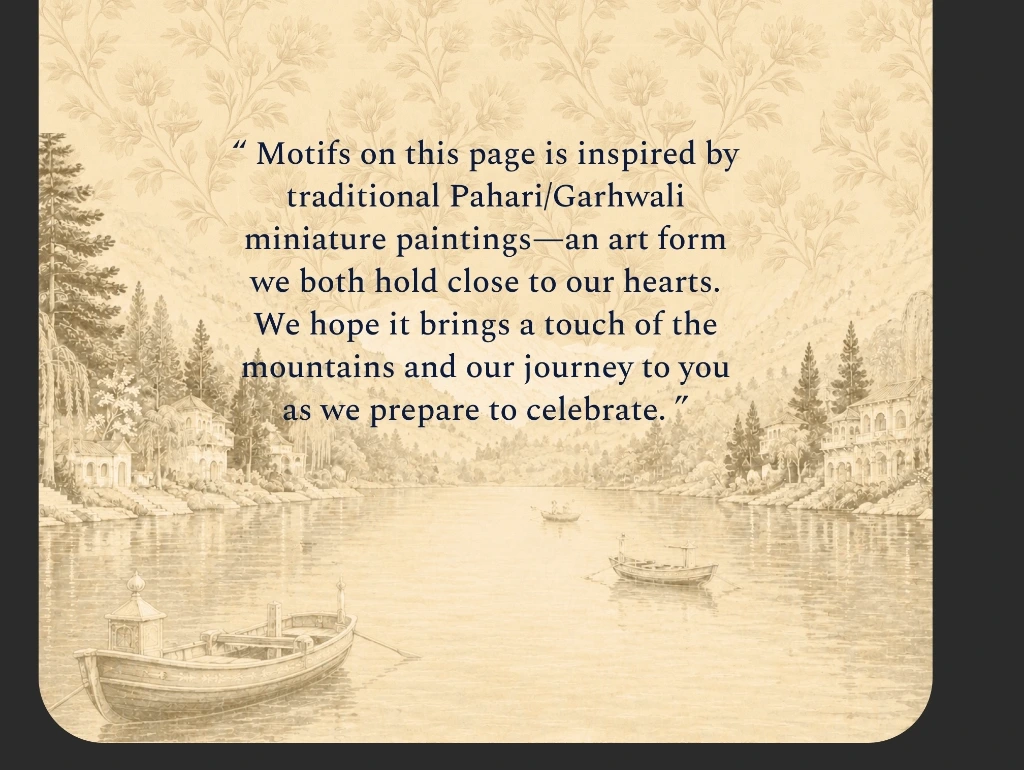
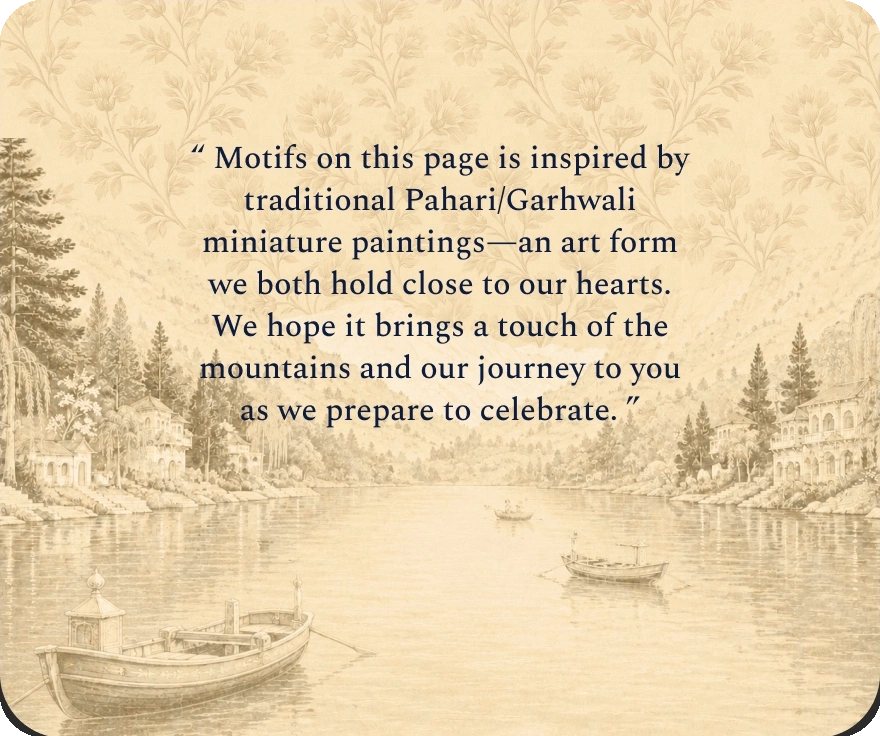
Fix bottom page Pahari motifs artwork to exact 1:1 Figma crop with zero sidebars and transparent rounded corners

diff --git a/celebrations.html b/celebrations.html
@@ -1069,12 +1069,12 @@ body.sheet-modal-open .fixed-bottom-nav {
     <!-- ── 5. Epilogue Card: Pahari / Garhwali Motifs (Figma Node 484:242) ── -->
     <article class="celebrations-epilogue-card" aria-label="About the Pahari Motifs">
       <picture class="epilogue-art-wrap">
-        <source srcset="images/celebrations/pahari_motifs_footer.webp?v=1000" type="image/webp">
-        <img src="images/celebrations/pahari_motifs_footer.png?v=1000" 
+        <source srcset="images/celebrations/pahari_motifs_footer.webp?v=12000" type="image/webp">
+        <img src="images/celebrations/pahari_motifs_footer.png?v=12000" 
              alt="“Motifs on this page is inspired by traditional Pahari/Garhwali miniature paintings—an art form we both hold close to our hearts. We hope it brings a touch of the mountains and our journey to you as we prepare to celebrate.”" 
              class="epilogue-card-art" 
-             width="1024" 
-             height="770" 
+             width="880" 
+             height="736" 
              loading="lazy" 
              decoding="async">
       </picture>
